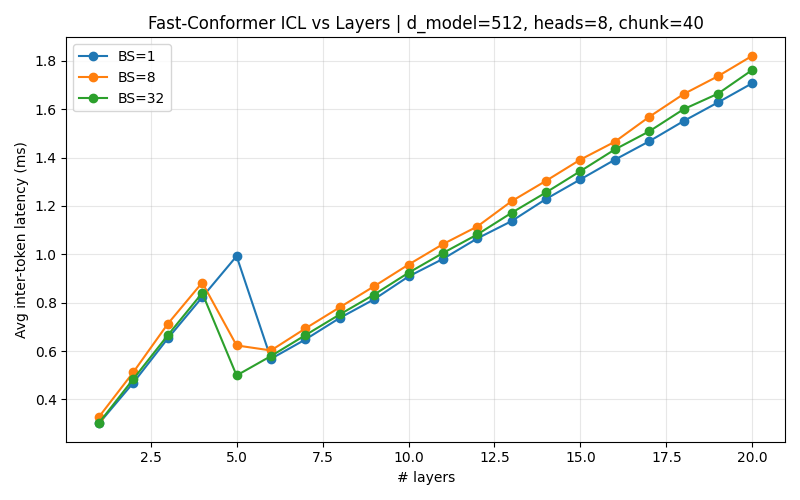
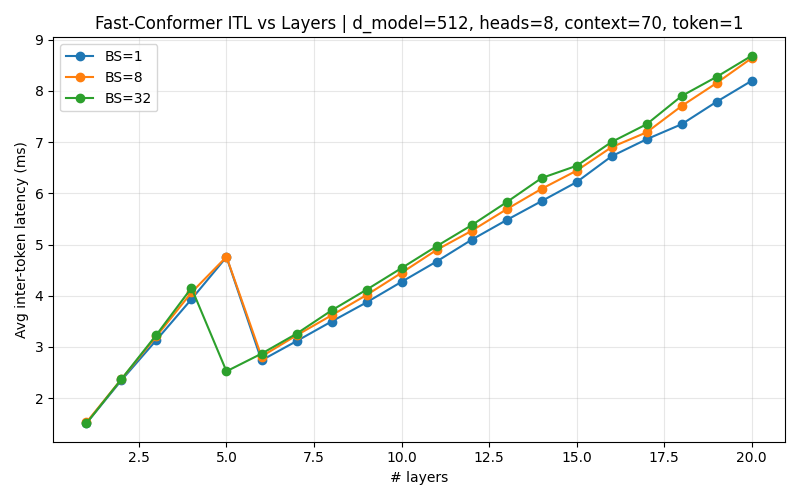
fix benchmark

diff --git a/benchmarks/bench_fast_conformer_3.py b/benchmarks/bench_fast_conformer_3.py
@@ -1,5 +1,5 @@
 # SPDX-License-Identifier: Apache-2.0
-# Streaming Fast-Conformer inter-chunk latency benchmark (PyTorch, self-contained)
+# Streaming Fast-Conformer inter-token latency benchmark (PyTorch, self-contained)
 
 import argparse
 import math
@@ -279,55 +279,58 @@ class StreamingFastConformer(nn.Module):
 
 
 @torch.inference_mode()
-def bench_inter_chunk(
+def bench_inter_token(
     model: StreamingFastConformer,
     device: str,
     batch_sizes=(1, 8, 32),
     steps=100,
-    chunk_frames=40,
+    context_frames=560,  # 70 encoder frames * 8 = 560 audio frames
+    token_frames=8,      # 1 encoder frame = 8 audio frames
     feat_dim=80,
     warmup_steps=10,
     amp="none",
 ):
+    print(f"benchmarking: context_frames={context_frames}, token_frames={token_frames}, feat_dim={feat_dim}, warmup_steps={warmup_steps}, amp={amp}")
     results = []
     for bs in batch_sizes:
         model.reset_stream(bs)
-        feats = torch.randn(bs, chunk_frames, feat_dim, device=device)
-
+        # Fill up the context: pass in 70 encoder frames worth of audio (560 audio frames)
+        context_feats = torch.randn(bs, context_frames, feat_dim, device=device)
+        with maybe_autocast(device, amp):
+            _ = model.forward_chunk(context_feats)
+        # Now, benchmark a single forward pass with full cache for a single output frame (8 audio frames)
+        token_feats = torch.randn(bs, token_frames, feat_dim, device=device)
+        # Warmup
         with maybe_autocast(device, amp):
             for _ in range(warmup_steps):
-                _ = model.forward_chunk(feats)
+                _ = model.forward_chunk(token_feats)
         if device.startswith("cuda"):
             torch.cuda.synchronize()
-
         times_ms = []
         for _ in range(steps):
             if device.startswith("cuda"):
                 torch.cuda.synchronize()
             t0 = time.time()
             with maybe_autocast(device, amp):
-                _ = model.forward_chunk(feats)
+                _ = model.forward_chunk(token_feats)
             if device.startswith("cuda"):
                 torch.cuda.synchronize()
             dt_ms = (time.time() - t0) * 1000.0
             times_ms.append(dt_ms)
-
-        out_frames = chunk_frames // 8
-
-        avg = sum(times_ms) / len(times_ms)
-        avg_itl = (sum(times_ms) / len(times_ms)) / out_frames
-        p50_itl = percentile(times_ms, 0.50) / out_frames
-        p90_itl = percentile(times_ms, 0.90) / out_frames
-        p99_itl = percentile(times_ms, 0.99) / out_frames
-
-        fps_per_stream = (out_frames) / (avg / 1000.0)
-        audio_ms = chunk_frames * 10.0
-        rtf = (avg) / audio_ms
+        # Each forward produces 1 encoder frame (token), so ITL is just the time per forward
+        avg_itl = sum(times_ms) / len(times_ms)
+        p50_itl = percentile(times_ms, 0.50)
+        p90_itl = percentile(times_ms, 0.90)
+        p99_itl = percentile(times_ms, 0.99)
+        fps_per_stream = 1000.0 / avg_itl
+        audio_ms = token_frames * 10.0
+        rtf = avg_itl / audio_ms
         results.append(
             dict(
                 batch_size=bs,
                 steps=steps,
-                chunk_frames=chunk_frames,
+                context_frames=context_frames,
+                token_frames=token_frames,
                 avg_ms=avg_itl,
                 p50_ms=p50_itl,
                 p90_ms=p90_itl,
@@ -362,7 +365,6 @@ def main():
     parser.add_argument("--k-conv", type=int, default=9)
     parser.add_argument("--ff-mult", type=int, default=4)
     parser.add_argument("--attn-win-left", type=int, default=70)
-    parser.add_argument("--chunk-frames", type=int, default=40, help="mel frames per chunk (10ms hop ⇒ 400ms default)")
     parser.add_argument("--steps", type=int, default=100)
     parser.add_argument("--warmup-steps", type=int, default=10)
     parser.add_argument("--batch-sizes", type=int, nargs="+", default=[1, 8, 32])
@@ -374,8 +376,8 @@ def main():
     parser.add_argument("--layers-max", type=int, default=20, help="max layers (inclusive) to sweep")
     parser.add_argument("--layers-step", type=int, default=1, help="step when sweeping layers")
     # Outputs
-    parser.add_argument("--save-plot", type=str, default="itl_vs_layers_no_conv.png")
-    parser.add_argument("--save-csv", type=str, default="itl_vs_layers_no_conv.csv")
+    parser.add_argument("--save-plot", type=str, default="itl_vs_layers.png")
+    parser.add_argument("--save-csv", type=str, default="itl_vs_layers.csv")
     args = parser.parse_args()
 
     torch.manual_seed(args.seed)
@@ -389,12 +391,12 @@ def main():
     layers_list = list(range(args.layers_min, args.layers_max + 1, max(1, args.layers_step)))
     batch_sizes = list(args.batch_sizes)
 
-    print("\n=== Streaming Fast-Conformer Inter-Chunk Latency (ICL) — Layers Sweep ===")
+    print("\n=== Streaming Fast-Conformer Inter-Token Latency (ITL) — Layers Sweep ===")
     print(
         f"Model cfg: d_model={args.d_model}, heads={args.heads}, k_conv={args.k_conv}, Wl={args.attn_win_left}, ff_mult={args.ff_mult}"
     )
     print(
-        f"Chunk: {args.chunk_frames} mel frames @10ms hop (~{args.chunk_frames*10} ms audio), steps={args.steps}, device={args.device}, amp={args.amp}"
+        f"Context: 70 encoder frames (560 audio frames), Token: 1 encoder frame (8 audio frames), steps={args.steps}, device={args.device}, amp={args.amp}"
     )
     print(f"Sweeping layers: {layers_list[0]}..{layers_list[-1]} (step {max(1, args.layers_step)}) | batch sizes {batch_sizes}")
 
@@ -413,12 +415,13 @@ def main():
 
         model = maybe_compile(model, args.compile)
 
-        results_L = bench_inter_chunk(
+        results_L = bench_inter_token(
             model=model,
             device=args.device,
             batch_sizes=tuple(batch_sizes),
             steps=args.steps,
-            chunk_frames=args.chunk_frames,
+            context_frames=70 * 8,
+            token_frames=8,
             feat_dim=args.feat_dim,
             warmup_steps=args.warmup_steps,
             amp=args.amp,
@@ -462,7 +465,7 @@ def main():
     plt.xlabel("# layers")
     plt.ylabel("Avg inter-token latency (ms)")
     plt.title(
-        f"Fast-Conformer ICL vs Layers | d_model={args.d_model}, heads={args.heads}, chunk={args.chunk_frames}"
+        f"Fast-Conformer ITL vs Layers | d_model={args.d_model}, heads={args.heads}, context=70, token=1"
     )
     plt.grid(True, alpha=0.3)
     plt.legend()
